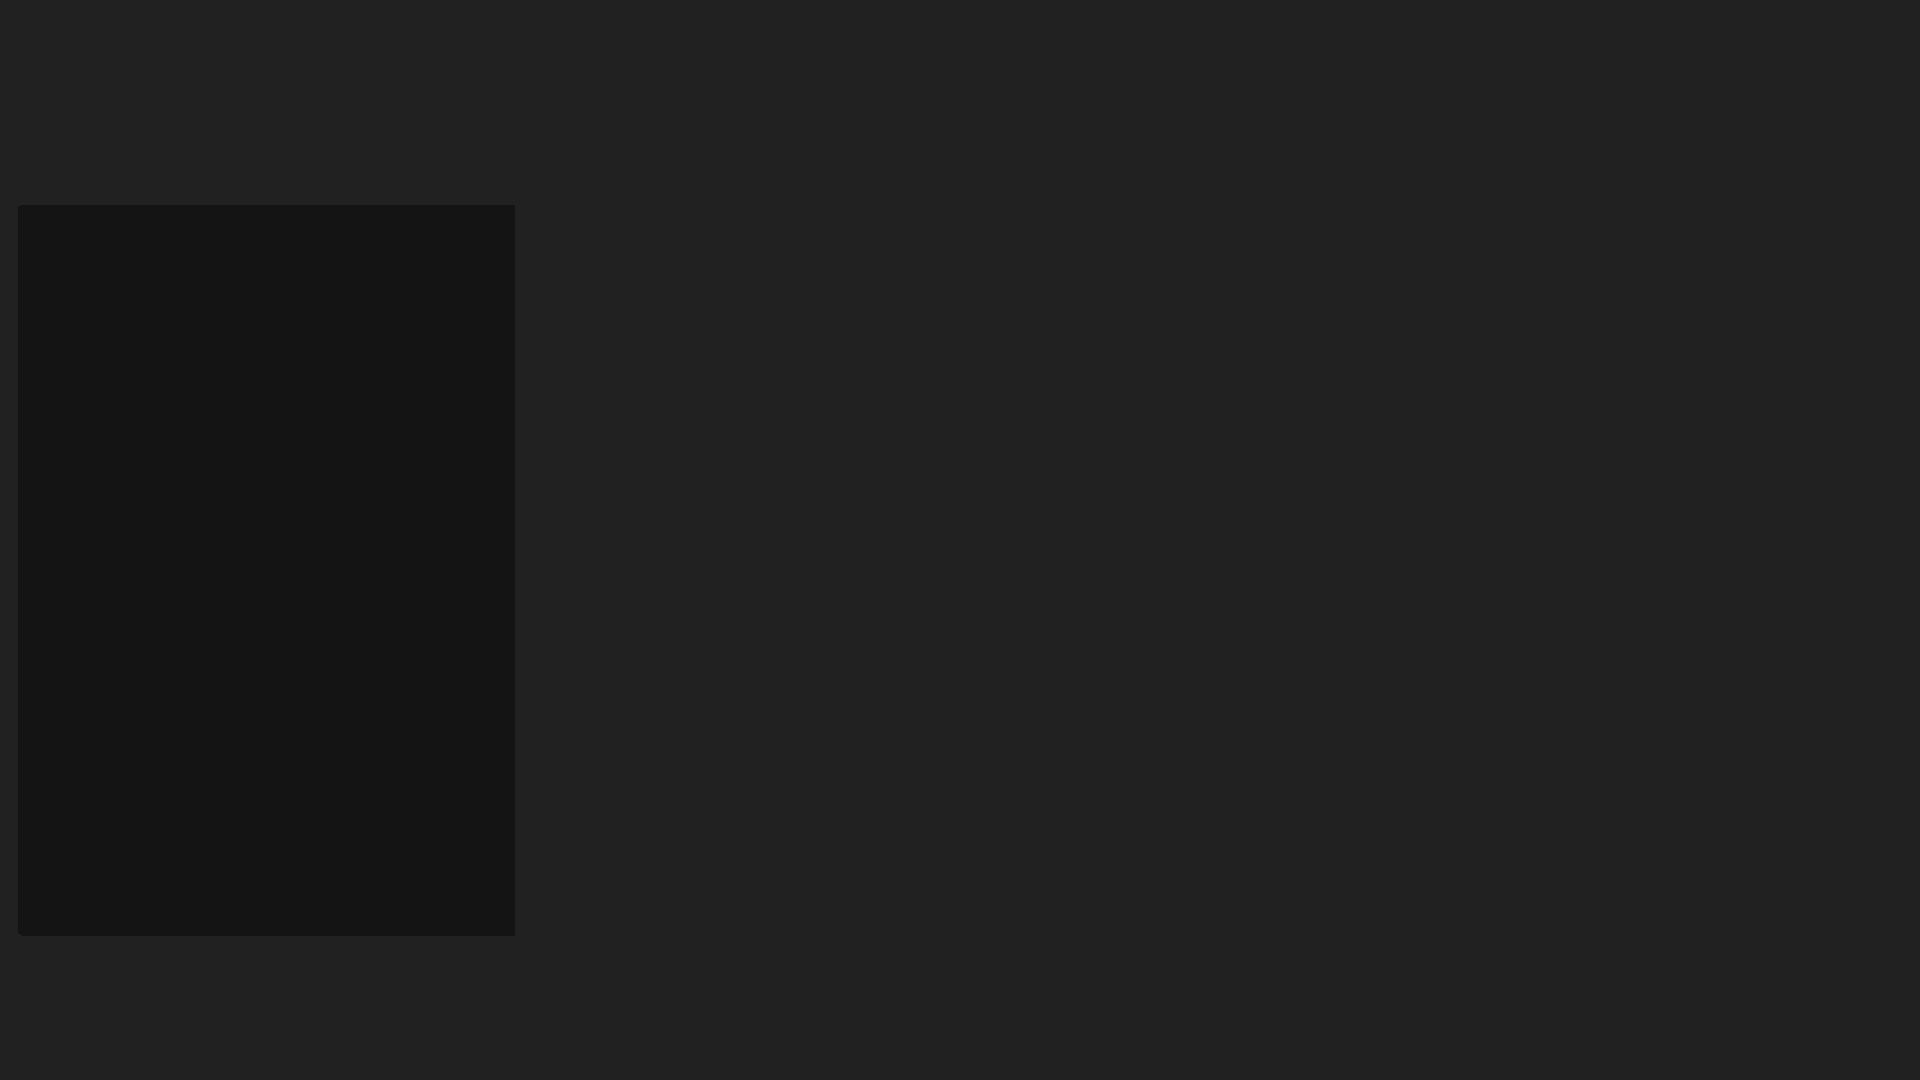
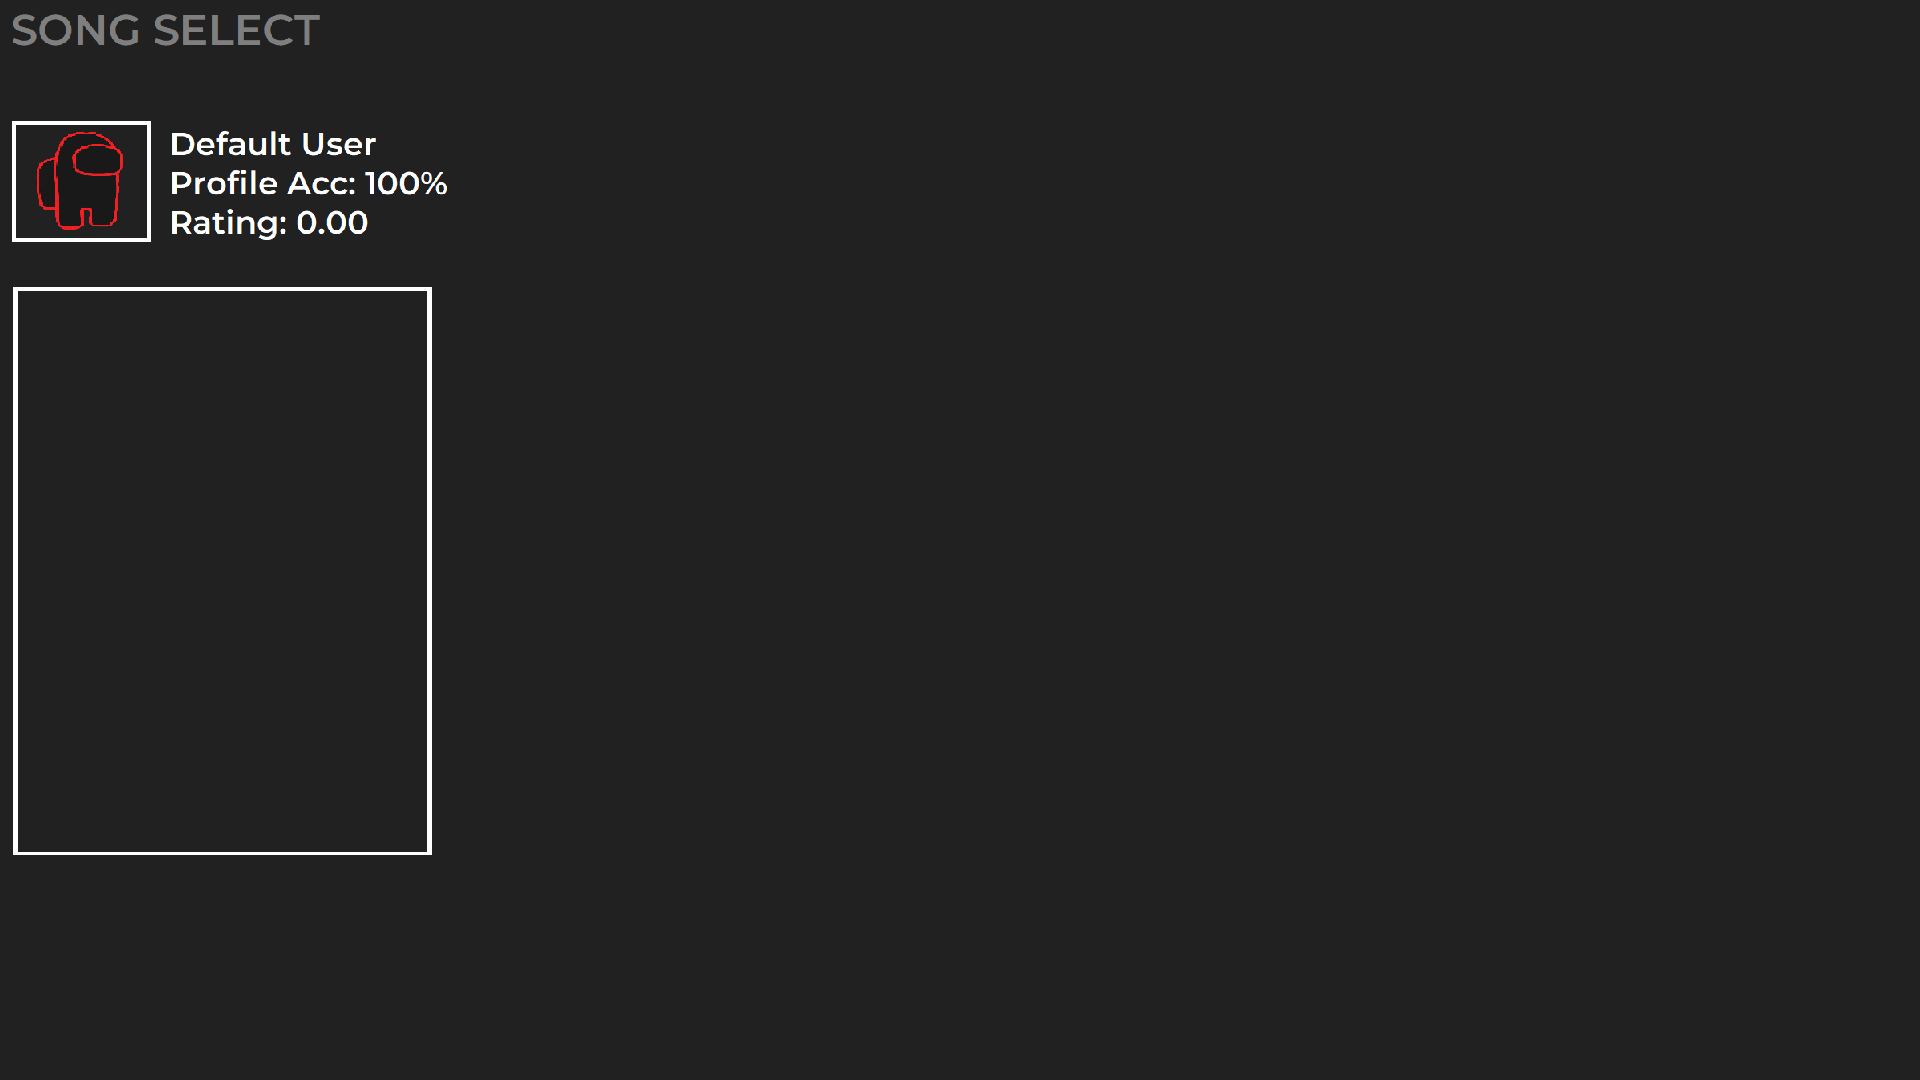
ui stuff

Changed region(s): [[0.0, 0.0917, 0.25, 0.275], [0.0, 0.0, 0.1562, 0.0611], [0.0, 0.7639, 0.0312, 0.7944]]

diff --git a/SongSelect.py b/SongSelect.py
@@ -52,23 +52,18 @@ def Display(window, clock, font):
     # Maps loaded, but not rendered.
     elif not Globals.loadedmaps.drewlist:
         
-        Globals.ui.searchbox = pygame_gui.elements.UITextEntryLine(pygame.Rect((0, 0), (Globals.options.options["screen_width"], Globals.options.options["fontsize"])), manager=Globals.ui.manager)
+        Globals.ui.searchbox = pygame_gui.elements.UITextEntryLine(pygame.Rect((0, Globals.options.options["screen_height"] - (Globals.options.options["fontsize"]*1.5)), (Globals.options.options["screen_width"] - (Globals.options.options["screen_width"]/2.5), Globals.options.options["fontsize"]*1.5)), manager=Globals.ui.manager)
+        Globals.ui.searchbox.text = "Search for a map..."
         Globals.ui.searchbox.rebuild()
         
-        Globals.ui.songselectlist = pygame_gui.elements.UISelectionList(pygame.Rect((Globals.options.options["screen_width"] - (Globals.options.options["screen_width"]/2.5), Globals.options.options["fontsize"]-4), (Globals.options.options["screen_width"]/2.5, Globals.options.options["screen_height"] - Globals.options.options["fontsize"])), item_list=Globals.loadedmaps.maparray, manager=Globals.ui.manager)
-        Globals.ui.songselectlist.background_colour = pygame.Color(40,10,25)
-        Globals.ui.songselectlist.border_colour = pygame.Color(255,255,255)
-        Globals.ui.songselectlist.list_item_height = 75
-        Globals.ui.songselectlist.rebuild()
-        
-        # rebuild_from_changed_theme_data()
+        Globals.ui.songselectlist = pygame_gui.elements.UISelectionList(pygame.Rect((Globals.options.options["screen_width"] - (Globals.options.options["screen_width"]/2.5), 0), (Globals.options.options["screen_width"]/2.5, Globals.options.options["screen_height"])), item_list=Globals.loadedmaps.maparray, manager=Globals.ui.manager)
         
         Globals.loadedmaps.drewlist = True
         
     # Already Rendered
     else:
         # Player Queried something
-        if Globals.ui.searchbox.text != "":
+        if Globals.ui.searchbox.text != "" and Globals.ui.searchbox.text != "Search for a map...":
             if Globals.loadedmaps.searchquery != Globals.ui.searchbox.text:
                 
                 search_array = []
@@ -96,21 +91,9 @@ def Display(window, clock, font):
     songselectimg = pygame.transform.scale(songselectimg, (Globals.options.options["screen_width"], Globals.options.options["screen_height"]))
     window.blit(songselectimg, (0, 0))
     
-    # Draw Map Name object
-    mapname = font.render(str(Globals.mainmenu.selectedsong["title"]) + " - " + str(Globals.mainmenu.selectedsong["diffname"]) + " | " + str(Globals.mainmenu.selectedsong["artist"] + " / " + str(Globals.mainmenu.selectedsong["creator"])), True, pygame.Color("white"))
-    window.blit(mapname, (15, 50))
-    
-    # Draw Difficulty object
-    difficulty = font.render(("Difficulty: N/A"), True, pygame.Color("white"))
-    window.blit(difficulty, (15, 80))
-    
-    # Draw Keycount object
-    keycount = font.render(("Keycount: " + str(Globals.mainmenu.selectedsong["keyCount"])), True, pygame.Color("white"))
-    window.blit(keycount, (15, 110))
-    
-    # Total Objects object
-    totalobjects = font.render(("Total Objects: " + str(int(Globals.mainmenu.selectedsong["nbNotes"]) + int(Globals.mainmenu.selectedsong["nbHolds"]))), True, pygame.Color("white"))
-    window.blit(totalobjects, (15, 140))
+    # Draw Info object
+    difficulty = font.render(("Difficulty: N/A | Keycount: " + str(Globals.mainmenu.selectedsong["keyCount"]) + " | Total Objects: " + str(int(Globals.mainmenu.selectedsong["nbNotes"]) + int(Globals.mainmenu.selectedsong["nbHolds"]))), True, pygame.Color("white"))
+    window.blit(difficulty, (10, 55))
     
     dtforui = clock.tick(Globals.options.options["fps"])/1000.0
     Globals.ui.manager.update(dtforui)

diff --git a/Globals.py b/Globals.py
@@ -65,7 +65,7 @@ options.Load()
 # UI Items
 class UI():
     def __init__(self):
-        self.manager = pygame_gui.UIManager((options.options["screen_width"], options.options["screen_height"]))
+        self.manager = pygame_gui.UIManager((options.options["screen_width"], options.options["screen_height"]), "ui_theme.json")
         self.songselectlist = None
         self.searchbox = None
 
@@ -73,15 +73,16 @@ ui = UI()
 
 # Engine/PlayField Images
 class Images():
-    def __init__(self, noteimgs, lnheadimgs, lnbodyimgs, lntailimgs, receptorimgs, receptorDimgs):
+    def __init__(self, noteimgs, lnheadimgs, lnbodyimgs, lntailimgs, receptorimgs, receptorDimgs, playfieldimg):
         self.noteimgs = noteimgs
         self.lnheadimgs = lnheadimgs
         self.lnbodyimgs = lnbodyimgs
         self.lntailimgs = lntailimgs
         self.receptorimgs = receptorimgs
         self.receptorDimgs = receptorDimgs
+        self.playfieldimg = playfieldimg
 
-images = Images([], [], [], [], [], [])
+images = Images([], [], [], [], [], [], None)
 
 # Engine Receptors
 class Receptor():
@@ -191,6 +192,7 @@ def Reset(window, map):
     images.lnheadimgs.clear()
     images.lnbodyimgs.clear()
     images.lntailimgs.clear()
+    images.playfield = None
     
     states = States(False, (True if map == None else False), False, False, False, (False if map == None else True))
     mapinfo = MapInfo(None, None, {}, 0, 0)

diff --git a/PlayField.py b/PlayField.py
@@ -63,6 +63,10 @@ def LoadMap(path):
             Globals.images.lntailimgs.append(lntailimg)
             Globals.images.receptorimgs.append(receptorimg)
             Globals.images.receptorDimgs.append(receptorDimg)
+        
+        playfieldimg = pygame.image.load("./skins/" + Globals.options.options["skin"] + "/playfield.png").convert_alpha()
+        playfieldimg = pygame.transform.scale(playfieldimg, (Globals.options.options["screen_width"], Globals.options.options["screen_height"]))
+        Globals.images.playfieldimg = playfieldimg
 
         # Update globally for every other script
         Globals.mapinfo.playingmap = map
@@ -80,6 +84,7 @@ def LoadMap(path):
     else:
         
         print("map failed to load!")
+        Globals.Reset()
         return None, None
 
 def Play(window, font, clock):
@@ -91,6 +96,9 @@ def Play(window, font, clock):
         :param window: The clock object (declared in Astral.py)
         
     """
+    
+    # Draw the playfield image
+    window.blit(Globals.images.playfieldimg, (0, 0))
 
     # Update the current time with delta.
     # This also adds frame indepedency.

diff --git a/MainMenu.py b/MainMenu.py
@@ -31,7 +31,16 @@ def Display(window, clock, font):
         img.fadeIn(1000)
         
         # Play a random song from map directory.
-        data = Engine.load("./maps/" + random.choice(os.listdir("./maps/")) + "/beatmap.json", False)
+        found_valid_map = False
+        
+        while not found_valid_map:
+            try:
+                
+                data = Engine.load("./maps/" + random.choice(os.listdir("./maps/")) + "/beatmap.json", False)
+                found_valid_map = True
+            
+            except: pass
+                
         Globals.mainmenu.selectedsong = data
         Globals.sounds.menumusicsound = pygame.mixer.Sound("./maps/" + data["title"] + " - " + data["diffname"] + "/audio.mp3")
         pygame.mixer.music.load("./maps/" + data["title"] + " - " + data["diffname"] + "/audio.mp3")
